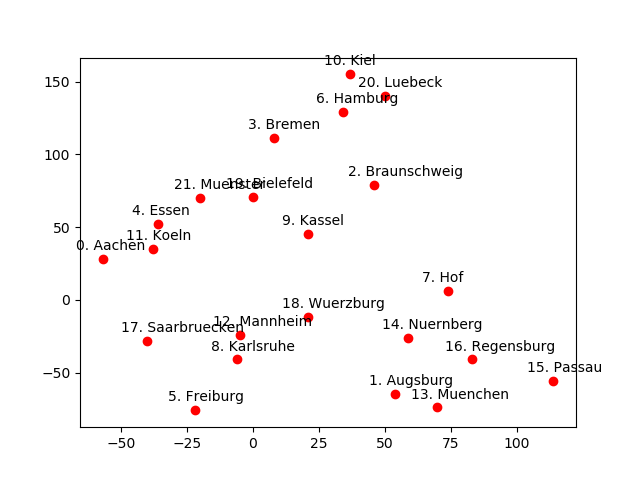
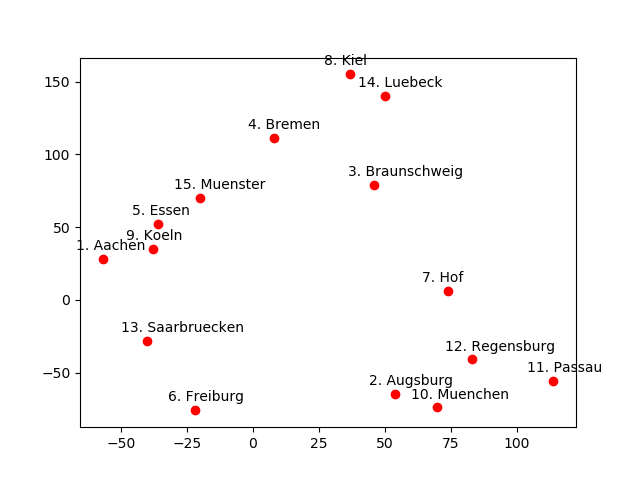
usunięcie zbędnych rzeczy

diff --git a/main.py b/main.py
@@ -22,6 +22,7 @@ class Genetic:
         :param path_names: ścieżka do pliku tekstowego zawierająca nazwy kolejnych miast
         :param path_xy: ścieżka do pliku z położeniami miast
         """
+        blocked = [[1, 2]]
         self.starting_generations = 0
         self.best_results = []
         self.c_names = []
@@ -30,7 +31,7 @@ class Genetic:
         self.time_matrix = []
         self.cost_matrix = []
         self.refactor_data(path_names, path_xy)
-        self.calc_dist_matrix()
+        self.calc_dist_matrix(blocked)
 
     def refactor_data(self, names_path, xy_path):
         """
@@ -65,12 +66,13 @@ class Genetic:
         """
         return ((xx[0]-yy[0])**2+(xx[1]-yy[1])**2)**(1/2)
 
-    def calc_dist_matrix(self):
+    def calc_dist_matrix(self, blocked):
         """
         Wylicz odległości pomiędzy miastami, z uwzględnieniem warunku, że nie wszystkie drogi są przejezdne
+
+        :param blocked: wektor wybranych nieprzejezdnych dróg
         """
         # tablica nieprzejezdnych dróg, możemy dowolnie modyfikować
-        blocked = [[1, 2]]
         self.dist_matrix = np.zeros((len(self.c_dist), len(self.c_dist)))
         for ind1, item1 in enumerate(self.c_dist):
             for ind2, item2 in enumerate(self.c_dist):
@@ -81,6 +83,10 @@ class Genetic:
         for path in blocked:
             self.dist_matrix[path[0]][path[1]] = 9999999
             self.dist_matrix[path[1]][path[0]] = 9999999
+        self.save_dist_matrix("data//wg22_dist.txt")
+
+    def save_dist_matrix(self, pathname):
+        np.savetxt(pathname, self.dist_matrix)
 
     def start_algorithm(self, start_pop=10, no_of_gen=1000, mutation=0.5, no_of_parent=3):
         """
@@ -189,7 +195,6 @@ class Genetic:
                         found = True
                         break
                 if not found:
-                    # znajdź najbliższe możliwe miasto
                     search = [j for j in range(lenght) if j not in dziecko]
                     min = 999999999999999
                     min_index = -1
@@ -234,14 +239,14 @@ class Genetic:
         ax = fig.add_subplot("111")
         for i in range(len(self.c_dist)):
             ax.plot(self.c_dist[i][0], self.c_dist[i][1], 'ro')
-            ax.text(self.c_dist[i][0]-10, self.c_dist[i][1]-5, "{0}. {1}".format(i, self.c_names[i]))
+            ax.text(self.c_dist[i][0]-10, self.c_dist[i][1]-5, "{0}. {1}".format(i+1, self.c_names[i]))
         fig.show()
 
 
 if __name__ == "__main__":
     gen2 = Genetic("data\\wg22_name.txt", "data\\wg22_xy.txt")
     gen2.plot_cities()
-    gen2.start_algorithm(750, 2500, 0.5, 2)
+    gen2.start_algorithm(1000, 2000, 0.7, 4)
     gen2.plot_result()
 
 # 1089.39788074

diff --git a/pop.py b/pop.py
@@ -55,17 +55,16 @@ class Invid:
     def mutation(self):
         """
         wykonaj operację mutacji na osobniku
-        aktualnie wybrana jest inwersja
         """
         # inwersja
-        lenght = len(self.param_values)
-        len_vec_of = random.randint(0, lenght)
-        number = random.randint(0, lenght-len_vec_of)
-        vector = self.param_values[number:number+len_vec_of]
-        for _ in range(len_vec_of):
-            self.param_values.pop(number)
-        for item in vector:
-            self.param_values.insert(number, item)
+        # lenght = len(self.param_values)
+        # len_vec_of = random.randint(0, lenght)
+        # number = random.randint(0, lenght-len_vec_of)
+        # vector = self.param_values[number:number+len_vec_of]
+        # for _ in range(len_vec_of):
+        #     self.param_values.pop(number)
+        # for item in vector:
+        #     self.param_values.insert(number, item)
 
         # wstawienie
         # lenght = len(self.param_values)
@@ -73,4 +72,14 @@ class Invid:
         # rand2 = random.randrange(0, lenght-1)
         # value = self.param_values.pop(rand1)
         # self.param_values.insert(rand2, value)
+
+        # przestawienie
+        lenght = len(self.param_values)
+        len_vec_of = random.randint(0, lenght)
+        number = random.randint(0, lenght - len_vec_of)
+        vector = self.param_values[number:number + len_vec_of]
+        for _ in range(len_vec_of):
+            self.param_values.pop(number)
+        for i, item in enumerate(vector):
+            self.param_values.insert(number+i, item)
 
